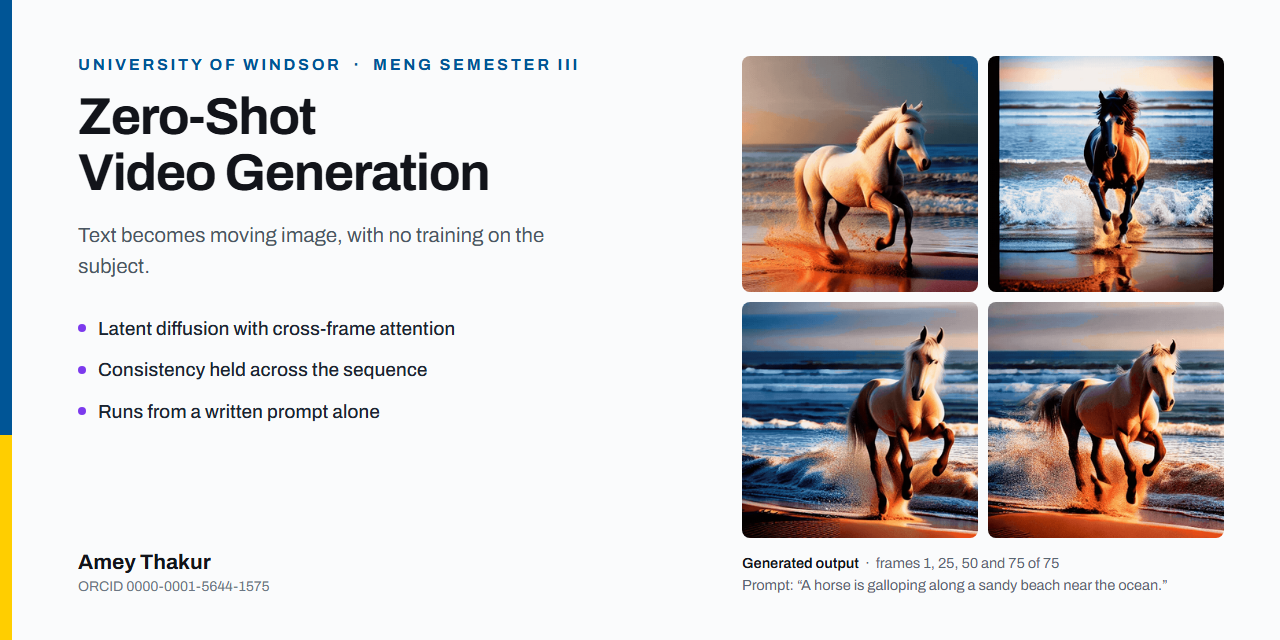
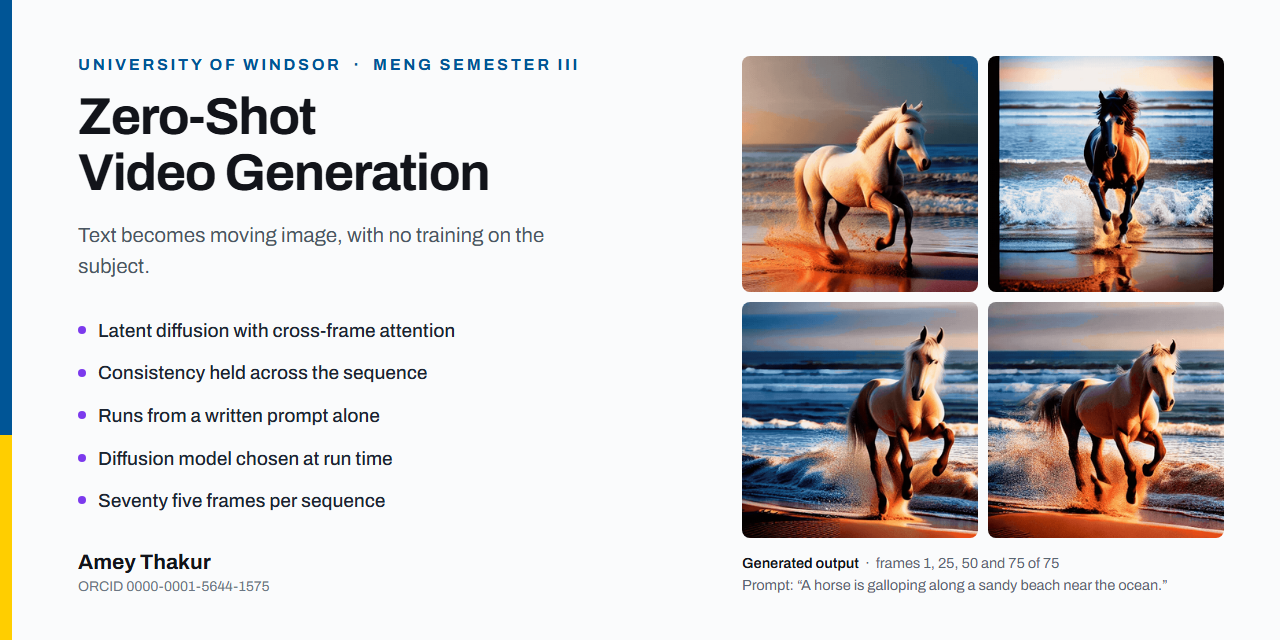
text2video

diff --git a/.github/social_preview.html b/.github/social_preview.html
@@ -8,7 +8,7 @@ body{background:#FAFBFC;font-family:Archivo,sans-serif;position:relative;overflo
 .kicker{font-size:16px;font-weight:700;letter-spacing:.17em;color:#005596;text-transform:uppercase}
 .h1{margin-top:16px;font-size:52px;font-weight:700;line-height:1.08;color:#12141A;letter-spacing:-.025em;padding-bottom:.06em}
 .sub{margin-top:16px;font-size:20.5px;color:#4A5663;line-height:1.5;max-width:520px}
-ul{margin-top:26px;list-style:none;font-size:19px;color:#1D2430;line-height:2.18}
+ul{margin-top:28px;list-style:none;font-size:19px;color:#1D2430;line-height:2.24}
 li{padding-left:20px;position:relative;font-weight:500}
 li:before{content:'';position:absolute;left:0;top:.86em;width:8px;height:8px;border-radius:50%;background:#7C3AED}
 .foot{margin-top:auto}
@@ -26,7 +26,7 @@ li:before{content:'';position:absolute;left:0;top:.86em;width:8px;height:8px;bor
     <div class="kicker">University of Windsor &nbsp;&middot;&nbsp; MEng Semester III</div>
     <div class="h1">Zero-Shot<br>Video Generation</div>
     <div class="sub">Text becomes moving image, with no training on the subject.</div>
-    <ul><li>Latent diffusion with cross-frame attention</li><li>Consistency held across the sequence</li><li>Runs from a written prompt alone</li></ul>
+    <ul><li>Latent diffusion with cross-frame attention</li><li>Consistency held across the sequence</li><li>Runs from a written prompt alone</li><li>Diffusion model chosen at run time</li><li>Seventy five frames per sequence</li></ul>
     <div class="foot"><div class="who">Amey Thakur<small>ORCID 0000-0001-5644-1575</small></div></div>
   </div>
   <div class="right">
